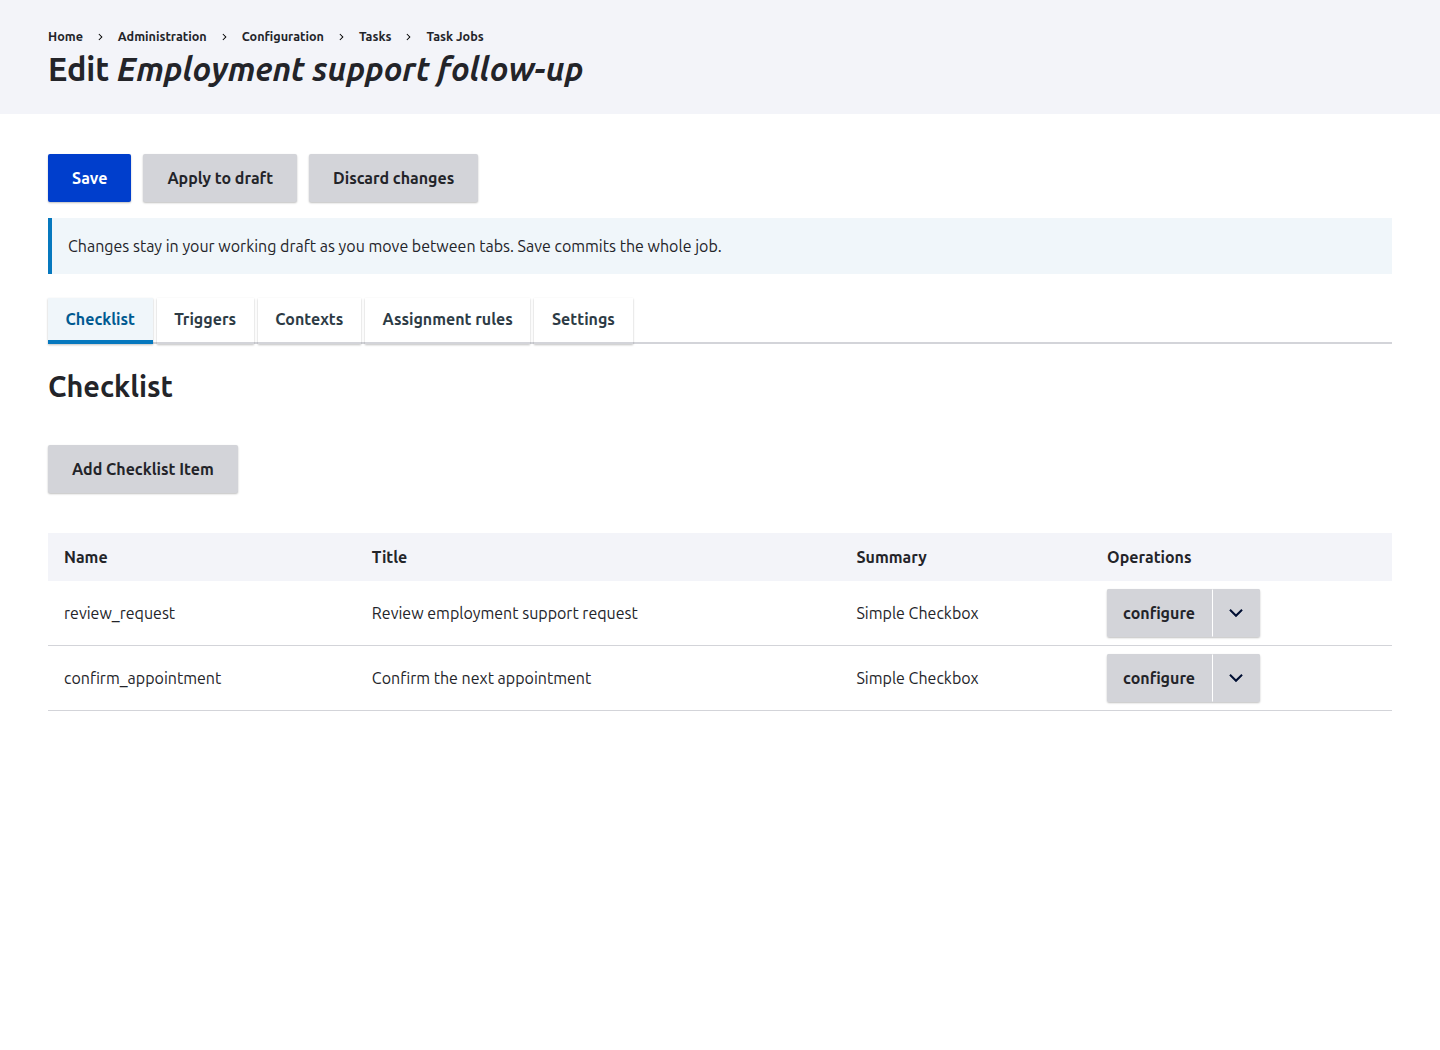
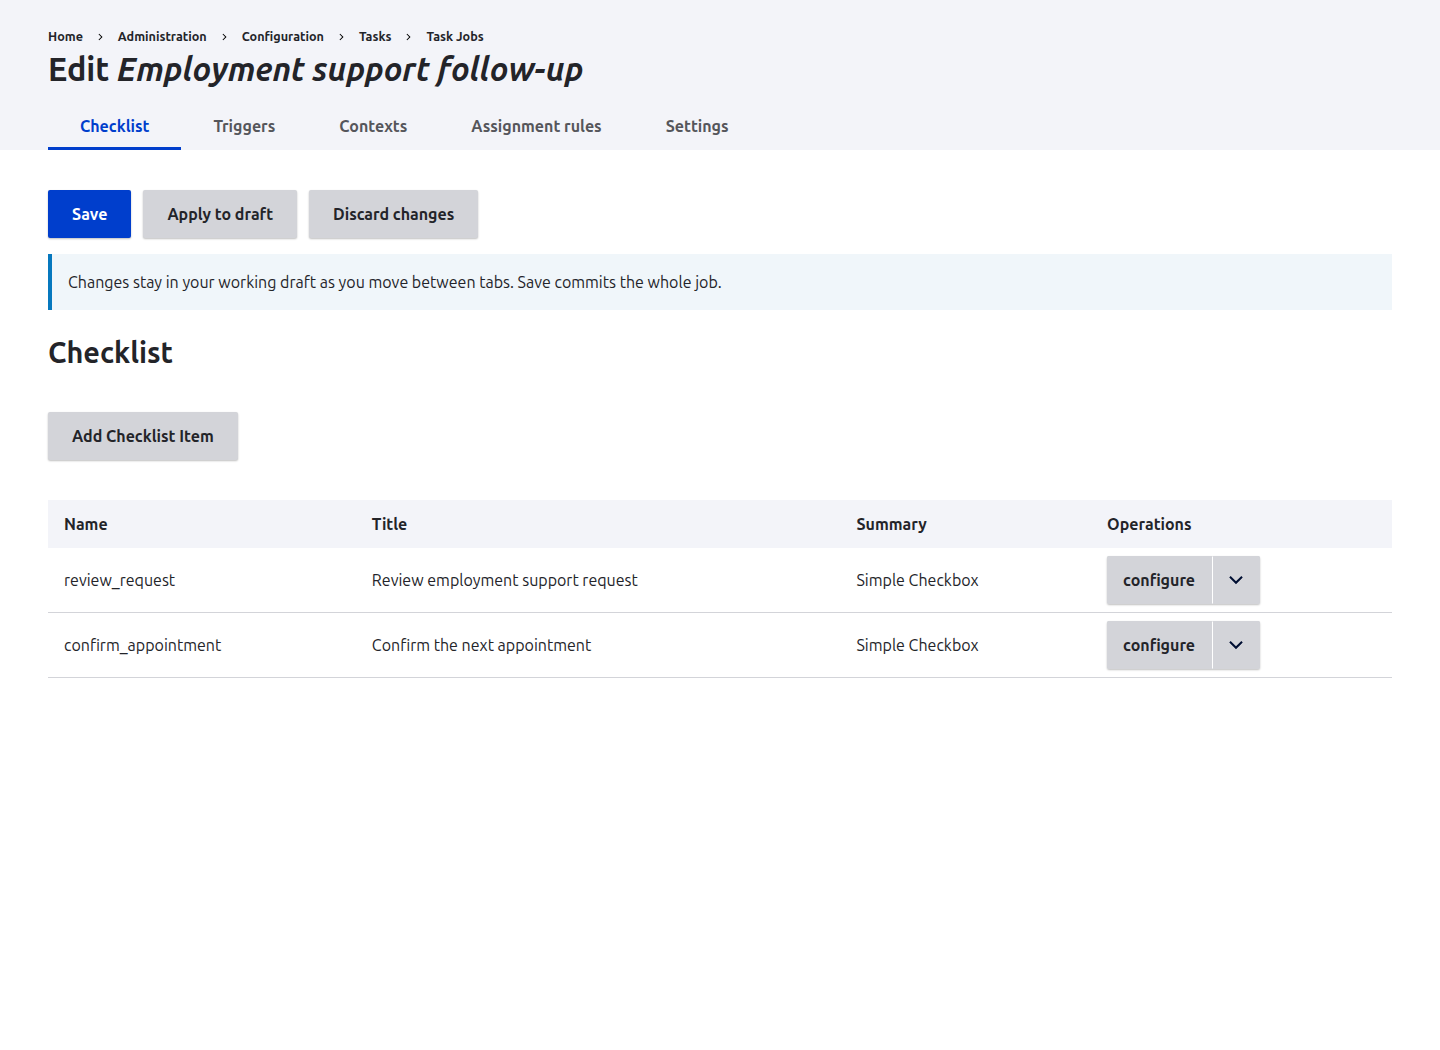
Use Drupal routes and local tasks for job editor tabs

diff --git a/modules/data/task/contrib/job/js/job-editor.js b/modules/data/task/contrib/job/js/job-editor.js
@@ -1,12 +1,27 @@
 /**
  * @file
- * Retains main-form edits before opening a nested configuration dialog.
+ * Retains edits before following a local task or opening a nested dialog.
  */
 (function (Drupal, once, $) {
   Drupal.behaviors.taskJobEditor = {
     attach(context) {
-      once('task-job-editor', '.task-job-editor', context).forEach((form) => {
+      once('task-job-tab', 'a[data-task-job-section]', context).forEach((link) => {
+        link.addEventListener('click', (event) => {
+          const form = document.querySelector('.task-job-editor');
+          if (!form || event.ctrlKey || event.metaKey || event.shiftKey || event.altKey || event.button !== 0) return;
+          event.preventDefault();
+          form.dispatchEvent(new CustomEvent('taskJobNavigate', { detail: link.href }));
+        });
+      });
+      // AJAX validation can pass the replaced form itself as the context.
+      const forms = $(context).find('.task-job-editor').addBack('.task-job-editor').get();
+      once('task-job-editor', forms).forEach((form) => {
         let pending;
+        form.addEventListener('taskJobNavigate', (event) => {
+          if (pending) return;
+          pending = { url: event.detail, navigate: true };
+          $(form.querySelector('.task-job-open-dialog')).trigger('mousedown');
+        });
         // Capture before Drupal's link AJAX handler opens the dialog. The form
         // request validates and stores this tab before the dialog reads its job.
         form.addEventListener('click', (event) => {
@@ -26,7 +41,8 @@
         $(form).on('taskJobDraftSaved', () => {
           const options = pending;
           pending = null;
-          if (options) Drupal.ajax(options).execute();
+          if (options?.navigate) window.location.assign(options.url);
+          else if (options) Drupal.ajax(options).execute();
         });
         // A failed request should leave the original link usable for retry.
         $(document).off('ajaxError.taskJobEditor').on('ajaxError.taskJobEditor', () => { pending = null; });

diff --git a/modules/data/task/contrib/job/css/job-editor.css b/modules/data/task/contrib/job/css/job-editor.css
@@ -14,28 +14,6 @@
   border-inline-start: 4px solid #0678be;
   background: #f0f6fa;
 }
-.task-job-tabs {
-  display: flex;
-  flex-wrap: wrap;
-  gap: .25rem;
-  border-bottom: 2px solid #d3d4d9;
-  margin-bottom: 1.5rem;
-}
-.task-job-tabs .task-job-tab {
-  margin: 0 0 -2px;
-  padding: .8rem 1.1rem;
-  color: #2d3b45;
-  background: transparent;
-  box-shadow: none;
-  border: 0;
-  border-bottom: 4px solid transparent;
-  border-radius: 0;
-}
-.task-job-tabs .task-job-tab.is-active {
-  color: #005a91;
-  border-bottom-color: #0678be;
-  background: #f0f6fa;
-}
 .task-job-editor h2 {
   margin: 1.5rem 0;
 }
@@ -43,9 +21,6 @@
   width: 100%;
 }
 @media (max-width: 600px) {
-  .task-job-tabs .task-job-tab {
-    padding: .65rem .7rem;
-  }
   .task-job-editor table {
     display: block;
     overflow-x: auto;

diff --git a/modules/data/task/contrib/job/tests/src/Functional/TaskJobEditFormTest.php b/modules/data/task/contrib/job/tests/src/Functional/TaskJobEditFormTest.php
@@ -21,13 +21,14 @@ class TaskJobEditFormTest extends BrowserTestBase {
   /**
    * {@inheritdoc}
    */
-  protected static $modules = ['task_job', 'task_dependency_job'];
+  protected static $modules = ['block', 'task_job', 'task_dependency_job'];
 
   /**
    * Creates a job with an editable trigger and logs in its administrator.
    */
   protected function setUp(): void {
     parent::setUp();
+    $this->drupalPlaceBlock('local_tasks_block');
     $this->drupalLogin($this->drupalCreateUser(['administer task jobs']));
     Job::create([
       'id' => 'follow_up',
@@ -58,14 +59,32 @@ class TaskJobEditFormTest extends BrowserTestBase {
   }
 
   /**
+   * Without JavaScript, apply edits explicitly before following a local task.
+   */
+  protected function switchTab(array $values, string $label): void {
+    $this->submitForm($values, 'Apply to draft');
+    $this->clickLink($label);
+    $this->assertSession()->statusCodeEquals(200);
+    $section = [
+      'Checklist' => '',
+      'Triggers' => '/triggers',
+      'Contexts' => '/contexts',
+      'Assignment rules' => '/assignment',
+      'Settings' => '/settings',
+    ][$label];
+    $this->assertStringEndsWith('/edit' . $section, parse_url($this->getSession()->getCurrentUrl(), PHP_URL_PATH));
+    $this->assertSession()->linkExists($label);
+  }
+
+  /**
    * Tab changes and child forms retain edits; Save is the only config write.
    */
   public function testDraftAcrossTabs(): void {
-    $this->drupalGet('/admin/config/task/job/follow_up/edit', ['query' => ['section' => 'settings']]);
-    $this->submitForm(['label' => 'Draft label'], 'Triggers');
+    $this->drupalGet('/admin/config/task/job/follow_up/edit/settings');
+    $this->switchTab(['label' => 'Draft label'], 'Triggers');
     $this->assertSame('Follow up', $this->saved()->label());
     $this->assertSession()->fieldNotExists('label');
-    $this->submitForm([
+    $this->switchTab([
       'triggers[replacement][action][configuration][dependency_action]' => 'invalidate',
     ], 'Contexts');
     $this->submitForm([
@@ -73,8 +92,8 @@ class TaskJobEditFormTest extends BrowserTestBase {
       'context[_add_new][key]' => 'document',
       'context[_add_new][type]' => 'entity:task',
     ], 'Add');
-    $this->submitForm([], 'Assignment rules');
-    $this->submitForm(['assignment' => 'creator'], 'Checklist');
+    $this->switchTab([], 'Assignment rules');
+    $this->switchTab(['assignment' => 'creator'], 'Checklist');
     $this->clickLink('Add Checklist Item');
     $this->clickLink('Simple Checkbox');
     $this->submitForm(['name' => 'review', 'label' => 'Review replacement work'], 'Add');
@@ -82,7 +101,7 @@ class TaskJobEditFormTest extends BrowserTestBase {
     $this->assertSession()->pageTextContains('Review replacement work');
     $this->assertSame([], $this->saved()->getChecklistItems());
     $this->assertSame([], $this->saved()->getContextDefinitions());
-    $this->submitForm([], 'Settings');
+    $this->switchTab([], 'Settings');
     $this->assertSession()->fieldValueEquals('label', 'Draft label');
     $this->submitForm([], 'Save');
     $this->assertSession()->pageTextContains('The job has been saved.');
@@ -92,8 +111,8 @@ class TaskJobEditFormTest extends BrowserTestBase {
     $this->assertSame('entity:task', $job->getContextDefinition('document')->getDataType());
     $this->assertSame('Review replacement work', $job->getChecklistItems()['review']['label']);
     $this->assertSame('invalidate', $job->getTriggersConfiguration()['replacement']['action']['configuration']['dependency_action']);
-    $this->submitForm(['label' => 'Discard this label'], 'Triggers');
-    $this->submitForm([
+    $this->switchTab(['label' => 'Discard this label'], 'Triggers');
+    $this->switchTab([
       'triggers[replacement][action][configuration][dependency_action]' => 'activate',
     ], 'Checklist');
     $this->clickLink('configure');
@@ -101,9 +120,9 @@ class TaskJobEditFormTest extends BrowserTestBase {
     $this->submitForm([], 'Discard changes');
     $this->assertSession()->pageTextContains('Review replacement work');
     $this->assertSession()->pageTextNotContains('Discard this item title');
-    $this->submitForm([], 'Settings');
+    $this->switchTab([], 'Settings');
     $this->assertSession()->fieldValueEquals('label', 'Draft label');
-    $this->submitForm([], 'Triggers');
+    $this->switchTab([], 'Triggers');
     $this->assertSession()->fieldValueEquals('triggers[replacement][action][configuration][dependency_action]', 'invalidate');
   }
 
@@ -114,9 +133,9 @@ class TaskJobEditFormTest extends BrowserTestBase {
     $version = $this->container->get('task_job.version_resolver')->createVersion($this->saved(), '6');
     $version->save();
     $dirty_id = JobVersionId::buildDirty('follow_up', '6');
-    $this->drupalGet($version->toUrl('edit-form'), ['query' => ['section' => 'settings']]);
+    $this->drupalGet('/admin/config/task/job/' . $version->id() . '/edit/settings');
     $this->assertNull($this->saved($dirty_id));
-    $this->submitForm(['description' => 'Working version'], 'Checklist');
+    $this->switchTab(['description' => 'Working version'], 'Checklist');
     $this->assertNull($this->saved($dirty_id));
     $this->submitForm([], 'Save');
     $this->assertSession()->pageTextContains('The job has been saved.');
@@ -136,7 +155,7 @@ class TaskJobEditFormTest extends BrowserTestBase {
    * Configuration imports cannot be silently overwritten by an older draft.
    */
   public function testChangedConfiguration(): void {
-    $this->drupalGet('/admin/config/task/job/follow_up/edit', ['query' => ['section' => 'settings']]);
+    $this->drupalGet('/admin/config/task/job/follow_up/edit/settings');
     $this->submitForm(['label' => 'My working label'], 'Apply to draft');
     $this->saved()->set('label', 'Imported label')->save();
     $this->submitForm([], 'Save');
@@ -151,7 +170,7 @@ class TaskJobEditFormTest extends BrowserTestBase {
    * One administrator cannot read or overwrite another's working copy.
    */
   public function testDraftOwnership(): void {
-    $this->drupalGet('/admin/config/task/job/follow_up/edit', ['query' => ['section' => 'settings']]);
+    $this->drupalGet('/admin/config/task/job/follow_up/edit/settings');
     $this->submitForm(['label' => 'Private working label'], 'Apply to draft');
     $this->drupalLogin($this->drupalCreateUser(['administer task jobs']));
     $this->drupalGet('/admin/config/task/job/follow_up/edit');

diff --git a/modules/data/task/contrib/job/src/Form/JobEditForm.php b/modules/data/task/contrib/job/src/Form/JobEditForm.php
@@ -187,27 +187,6 @@ class JobEditForm extends JobForm {
         ? $this->t('You have unsaved changes. Save commits the whole job; Discard changes restores the saved configuration.')
         : $this->t('Changes stay in your working draft as you move between tabs. Save commits the whole job.'),
     ];
-    $form['navigation'] = [
-      '#type' => 'container',
-      '#attributes' => [
-        'class' => ['task-job-tabs'],
-        'role' => 'navigation',
-        'aria-label' => $this->t('Job configuration'),
-      ],
-    ];
-    foreach ($this->sections() as $key => $label) {
-      $form['navigation'][$key] = [
-        '#type' => 'submit',
-        '#value' => $label,
-        '#name' => 'job_section_' . $key,
-        '#section' => $key,
-        '#submit' => ['::submitForm', '::saveDraft'],
-        '#attributes' => [
-          'class' => ['task-job-tab', $section === $key ? 'is-active' : ''],
-          'aria-current' => $section === $key ? 'page' : 'false',
-        ],
-      ];
-    }
     $form['heading'] = ['#type' => 'html_tag', '#tag' => 'h2', '#value' => $this->sections()[$section]];
     $ajax_attributes = [
       'query' => $this->getDestinationArray(),
@@ -253,7 +232,7 @@ class JobEditForm extends JobForm {
    */
   protected function section(FormStateInterface $form_state): string {
     if (!$form_state->has('job_section')) {
-      $section = $this->getRequest()->query->get('section', 'checklist');
+      $section = $this->getRouteMatch()->getRouteObject()->getDefault('_job_section') ?? 'checklist';
       $form_state->set('job_section', isset($this->sections()[$section]) ? $section : 'checklist');
     }
     return $form_state->get('job_section');
@@ -896,20 +875,20 @@ class JobEditForm extends JobForm {
     $this->entity->save();
     $this->tempstoreRepository->delete($draft);
     $this->messenger()->addStatus($this->t('The job has been saved.'));
-    $form_state->setRedirect('entity.task_job.edit_form', ['task_job' => $this->entity->id()], ['query' => ['section' => $this->section($form_state)]]);
+    $form_state->setRedirectUrl($this->tempstoreRepository->getEditUrl($this->entity, $this->section($form_state)));
   }
 
   /**
    * Retains edits without changing live job configuration.
    */
   public function saveDraft(array $form, FormStateInterface $form_state): void {
-    $section = $form_state->getTriggeringElement()['#section'] ?? $this->section($form_state);
+    $section = $this->section($form_state);
     $this->tempstoreRepository->set($this->entity, $section);
     $form_state->setRedirectUrl($this->tempstoreRepository->getEditUrl($this->entity));
   }
 
   /**
-   * Opens the configuration dialog after draft validation succeeds.
+   * Confirms a valid draft before client-side tab navigation or a dialog.
    */
   public function openEditorDialog(array $form, FormStateInterface $form_state): AjaxResponse {
     $response = new AjaxResponse();
@@ -928,7 +907,7 @@ class JobEditForm extends JobForm {
    */
   public function submitFormCancel(array $form, FormStateInterface $form_state) {
     $this->tempstoreRepository->delete($this->entity);
-    $form_state->setRedirect('entity.task_job.edit_form', ['task_job' => $this->entity->id()], ['query' => ['section' => $this->section($form_state)]]);
+    $form_state->setRedirectUrl($this->tempstoreRepository->getEditUrl($this->entity, $this->section($form_state)));
   }
 
   /**

diff --git a/modules/data/task/contrib/job/src/TaskJobTempstoreRepository.php b/modules/data/task/contrib/job/src/TaskJobTempstoreRepository.php
@@ -120,10 +120,10 @@ class TaskJobTempstoreRepository {
   /**
    * Returns dialogs to the tab from which they were opened.
    */
-  public function getEditUrl(JobInterface $job): Url {
-    return Url::fromRoute('entity.task_job.edit_form', ['task_job' => $job->id()], [
-      'query' => ['section' => $this->entry($job)['section'] ?? 'checklist'],
-    ]);
+  public function getEditUrl(JobInterface $job, ?string $section = NULL): Url {
+    $section ??= $this->entry($job)['section'] ?? 'checklist';
+    $route = $section === 'checklist' ? 'entity.task_job.edit_form' : 'entity.task_job.edit_' . $section;
+    return Url::fromRoute($route, ['task_job' => $job->id()]);
   }
 
   /**

diff --git a/modules/data/task/contrib/job/README.md b/modules/data/task/contrib/job/README.md
@@ -6,13 +6,27 @@ rendered. Settings includes the label, description and resources. Assignment
 currently exposes the existing default rule. Reusable checklist chunks and richer
 assignment rules are separate follow-up work; there is no placeholder template tab.
 
+## Routes and local tasks
+
+Tabs are Drupal local tasks declared in `task_job.links.task.yml`. Checklist uses
+the entity's existing `entity.task_job.edit_form` route (`/edit`). The other routes
+are declared in `task_job.routing.yml`: `entity.task_job.edit_triggers`,
+`entity.task_job.edit_contexts`, `entity.task_job.edit_assignment`, and
+`entity.task_job.edit_settings`, at `/edit/triggers`, `/edit/contexts`,
+`/edit/assignment`, and `/edit/settings` beneath the job URL.
+
+Each route uses the same entity edit form and update access check. Its
+`_job_section` default selects the fields to build. There is no `section` query
+parameter or separate form-button navigation. Drupal renders and themes the tabs.
+
 ## Working draft and save
 
 All tabs and child configuration forms use `task_job.tempstore_repository`.
-Switching tabs submits the current tab to the draft without saving configuration.
-**Apply to draft** does the same without leaving the tab. With JavaScript enabled,
-opening an off-canvas editor first validates and retains the parent tab's fields;
-without JavaScript, use Apply to draft before following a configuration link.
+With JavaScript enabled, following a tab link or opening an off-canvas editor
+first validates and retains the current tab's fields without saving configuration.
+Validation errors keep the editor on the current tab. **Apply to draft** does the
+same without leaving the tab. Without JavaScript (or before opening a tab in a
+new browser window), use Apply to draft before following a link.
 Nested Entity Template edits are folded into the same job draft when it is next
 loaded. Closing a dialog without submitting it does not apply that dialog's edits.
 

diff --git a/docs/screenshots/task-trigger-actions/README.md b/docs/screenshots/task-trigger-actions/README.md
@@ -1,7 +1,8 @@
 # Tabbed job configuration
 
 These are real Playwright screenshots from the local Drupal 10 preview running
-this branch with Claro. They show the normal job editor and its actual off-canvas
+this branch with Claro, using Drupal local-task links and distinct edit routes.
+They show the normal job editor and its actual off-canvas
 item form. Desktop viewport: 1440×1050; mobile viewport: 390×844. Full-page captures
 include content below the viewport. No mock HTML or generated artwork is used.
 All four images were opened and visually inspected before committing.
@@ -19,8 +20,9 @@ To reproduce on a disposable development site:
    form. Update modifies the draft; Save on the parent editor persists the job.
 
 Playwright also verified retention of settings through tab changes, Discard,
-pending trigger fields retained before a nested condition dialog, and mobile
-width. Functional tests separately verify persisted configuration, explicit
+pending trigger fields retained before a nested condition dialog, validation
+blocking tab navigation until corrected (including after AJAX replaces the form),
+and mobile width. Functional tests separately verify persisted configuration, explicit
 version saves, external-change conflicts and draft ownership.
 
 - [Checklist tab](job-editor-checklist.png)
